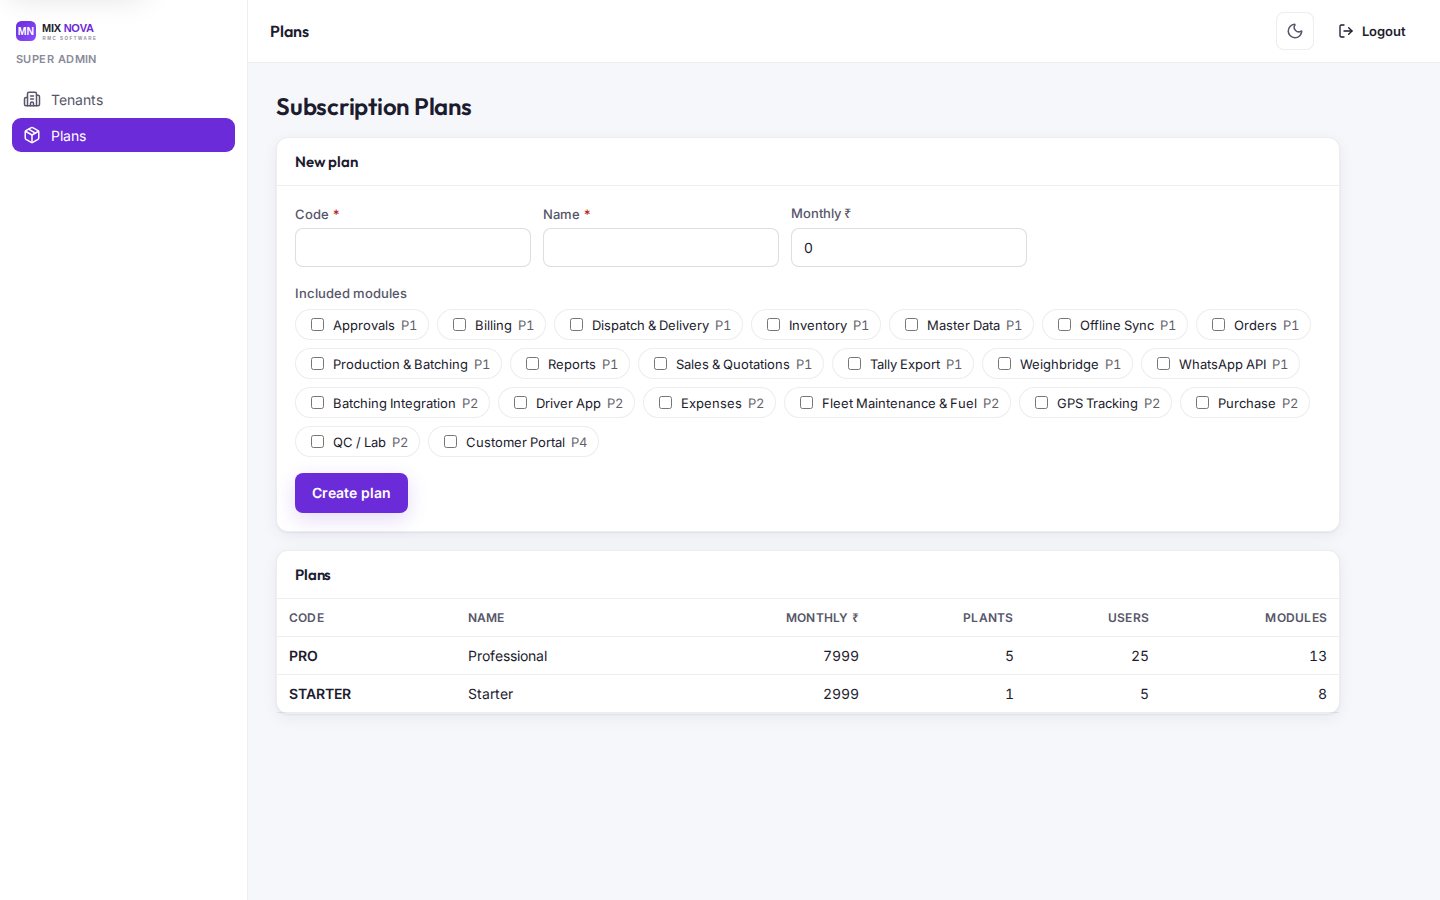
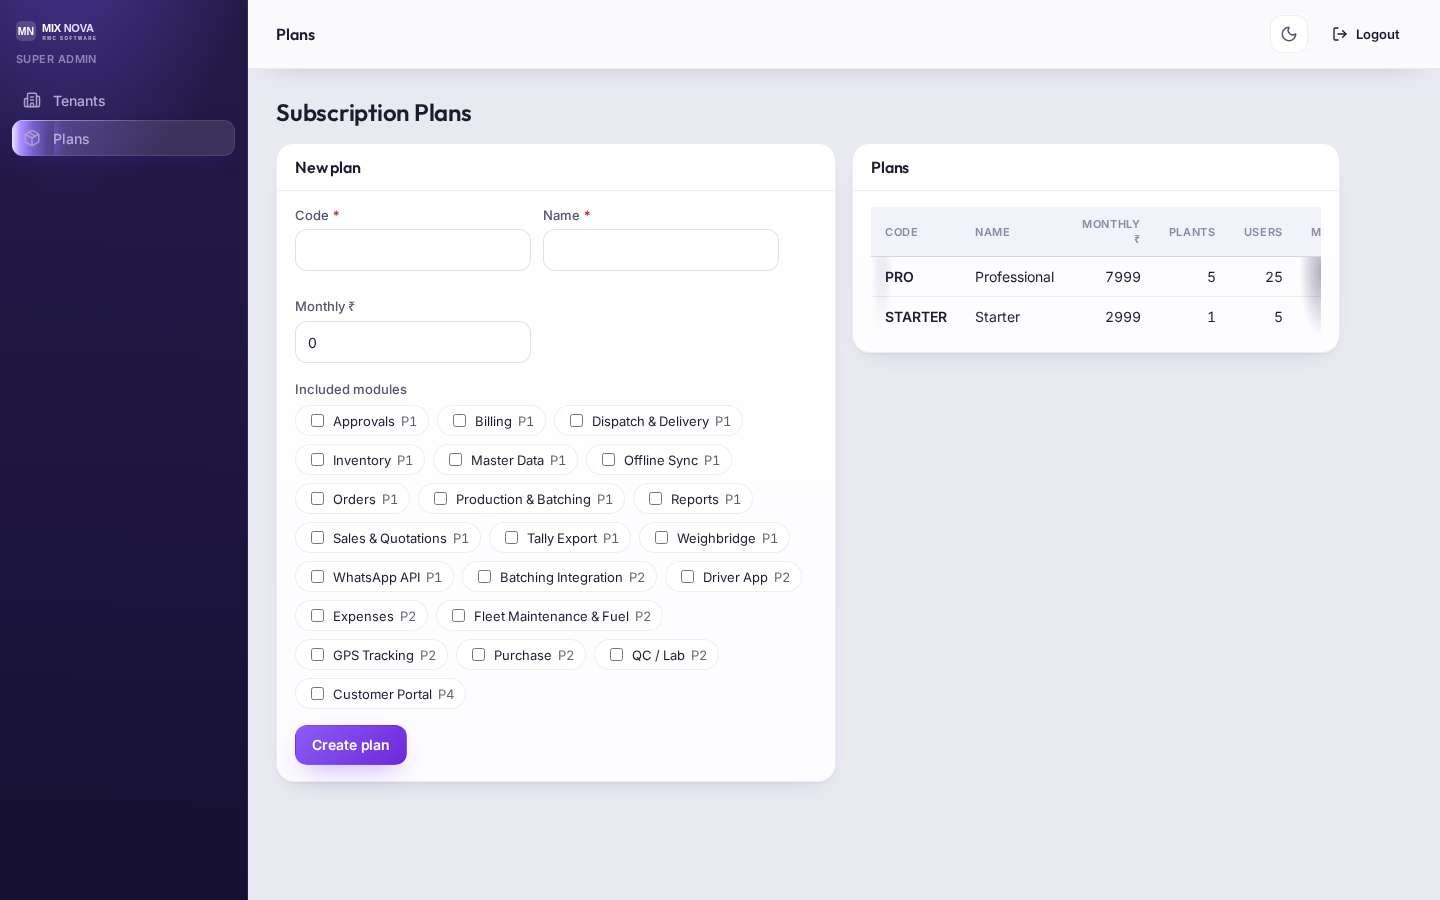
feat(web,v2): two-column layout on the admin Plans page (wide aside)
Give Plans the form-beside-list treatment with a wider aside (.mn-crud--wide,
460–560px) so its ~20-module picker keeps a comfortable single-column flow
inside the panel instead of the compact 2-col field grid used elsewhere. Scope
the compact form grid to :not(.mn-crud--wide) so the other CRUD pages are
unchanged. Presentation only, V2-gated; no regression baseline affected (Plans
is a super-admin evidence page). Refresh admin-plans/tenants evidence captures.

Claude-Session: https://claude.ai/code/session_01BcuFHf7eRzDGkTBPGdJVKG

diff --git a/apps/web/src/app/globals.css b/apps/web/src/app/globals.css
@@ -2068,21 +2068,27 @@ main:focus-visible {
   :root[data-ui='v2'] .mn-crud {
     grid-template-columns: minmax(340px, 400px) minmax(0, 1fr);
   }
+  /* wider aside for a form that carries a full-width picker (Plans modules).
+     These keep their own single-column flow — no compact 2-col field grid. */
+  :root[data-ui='v2'] .mn-crud.mn-crud--wide {
+    grid-template-columns: minmax(460px, 560px) minmax(0, 1fr);
+  }
   /* the form panel follows the list while it scrolls */
   :root[data-ui='v2'] .mn-crud-aside { position: sticky; top: 84px; }
   /* compact the aside form into a 2-column grid so a many-field form stays
      short (a tall single-column form looks unbalanced beside a short list).
      !important overrides the component's inline flex layout — scoped to the
-     two-column context only, so narrow screens keep the original flow. */
-  :root[data-ui='v2'] .mn-crud-aside form {
+     two-column context only, so narrow screens keep the original flow.
+     Skipped on .mn-crud--wide (picker forms keep single-column flow). */
+  :root[data-ui='v2'] .mn-crud:not(.mn-crud--wide) .mn-crud-aside form {
     display: grid !important;
     grid-template-columns: 1fr 1fr;
     gap: 12px 12px;
     align-items: end;
   }
-  :root[data-ui='v2'] .mn-crud-aside form > div { min-width: 0 !important; margin-bottom: 0; }
+  :root[data-ui='v2'] .mn-crud:not(.mn-crud--wide) .mn-crud-aside form > div { min-width: 0 !important; margin-bottom: 0; }
   /* the submit-button row spans both columns, left-aligned */
-  :root[data-ui='v2'] .mn-crud-aside form > div:last-child { grid-column: 1 / -1; justify-self: start; }
+  :root[data-ui='v2'] .mn-crud:not(.mn-crud--wide) .mn-crud-aside form > div:last-child { grid-column: 1 / -1; justify-self: start; }
 }
 /* the form reflows naturally into the narrower aside; keep its own bottom
    spacing from doubling up with the grid gap */

diff --git a/apps/web/src/app/admin/plans/page.tsx b/apps/web/src/app/admin/plans/page.tsx
@@ -56,7 +56,8 @@ export default function PlansPage() {
     <div>
       <h1 style={{ fontSize: 24, marginTop: 0, marginBottom: 16 }}>Subscription Plans</h1>
 
-      <div style={{ marginBottom: 18 }}>
+      <div className="mn-crud mn-crud--wide">
+        <div className="mn-crud-aside">
         <Card title="New plan">
           <Form onSubmit={create}>
             <div style={{ display: 'flex', gap: 12, flexWrap: 'wrap', alignItems: 'end' }}>
@@ -106,8 +107,8 @@ export default function PlansPage() {
           </Form>
           {error && <div style={{ marginTop: 12 }}><ErrorState message={error} /></div>}
         </Card>
-      </div>
-
+        </div>
+        <div className="mn-crud-main">
       <Card title="Plans" padded={false}>
         {plans.length ? (
           <Table>
@@ -138,6 +139,8 @@ export default function PlansPage() {
           <EmptyState title="No plans yet" description="Create your first subscription plan above." />
         )}
       </Card>
+        </div>
+      </div>
     </div>
   );
 }
